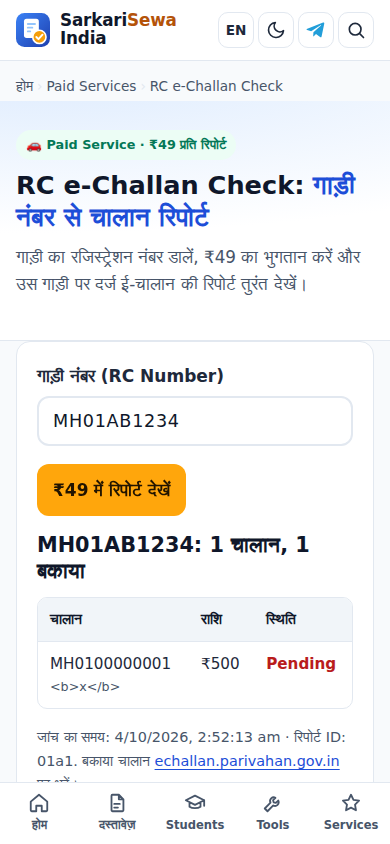
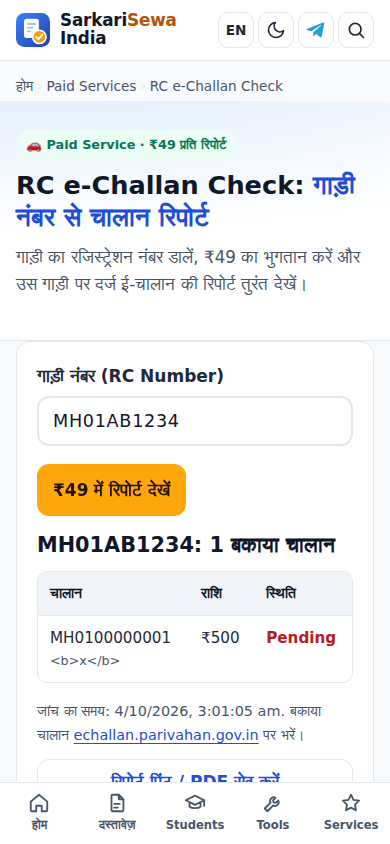
RC challan worker follows the API Sathi docs; auto-refund on failure
- Endpoint https://apisathi.in/gw/v1/rc-challan/, X-API-Key header,
  body { rc_number } only, result_code 101/103 mapped to the report.
- Razorpay payment id is sent as Idempotency-Key, so retries of
  upstream failures (502/503/504, not charged) are never billed twice.
- If no report can be made (invalid RC, no record, service down) the
  Razorpay payment is refunded automatically and cannot be reused.
- BH-series numbers are rejected before payment (the API does not take
  them). Page text and FAQ updated to match.

Claude-Session: https://claude.ai/code/session_0173F7PyiT1bjgjr4xLX45bo

Changed region(s): [[0.0923, 0.6469, 0.8923, 0.9242], [0.5846, 0.6161, 0.8615, 0.8009], [0.5231, 0.6777, 0.6154, 0.8009]]

diff --git a/cloudflare/rc-challan-api/worker.js b/cloudflare/rc-challan-api/worker.js
@@ -5,7 +5,7 @@
 //
 // Secrets (set with `wrangler secret put`, never in code or the website):
 //   RAZORPAY_KEY_ID, RAZORPAY_KEY_SECRET, APISATHI_API_KEY
-// Vars (wrangler.toml): RC_CHALLAN_PRICE (paise), CURRENCY, APISATHI_URL
+// Vars (wrangler.toml): RC_CHALLAN_PRICE (paise), CURRENCY
 const ALLOWED_ORIGINS = [
   "https://sarkarisewaindia.com",
   "https://www.sarkarisewaindia.com"
@@ -41,13 +41,13 @@ function json(data, status, headers) {
   return new Response(JSON.stringify(data), { status, headers });
 }
 
-// Indian registration numbers: state code, RTO number, series, number
-// (e.g. MH01AB1234, DL3CAB1234) and BH series (e.g. 22BH1234AB).
+// Registration numbers the API accepts: state code, RTO number, series,
+// 4-digit number (e.g. MH01AB1234, DL3CAB1234). BH series is not supported.
 function normalizeRC(rc) {
   return String(rc || "").toUpperCase().replace(/[^A-Z0-9]/g, "");
 }
 function isValidRC(rc) {
-  return /^[A-Z]{2}[0-9]{1,2}[A-Z]{0,3}[0-9]{4}$/.test(rc) || /^[0-9]{2}BH[0-9]{4}[A-Z]{1,2}$/.test(rc);
+  return /^[A-Z]{2}[0-9]{1,2}[A-Z]{0,3}[0-9]{4}$/.test(rc);
 }
 
 function bytesToHex(buffer) {
@@ -163,77 +163,87 @@ function verificationIsFresh(timestamp) {
   return Date.now() - value < 2 * 60 * 1000;
 }
 
-// API Sathi rc-challan. The request and response field names below follow
-// the API Sathi docs for the rc-challan API (check them before going live).
-function pick(obj, keys) {
-  for (const k of keys) if (obj && obj[k] !== undefined && obj[k] !== null && obj[k] !== "") return obj[k];
-  return "";
-}
+// API Sathi rc-challan (https://apisathi.in/docs/products/rc-challan/):
+// POST https://apisathi.in/gw/v1/rc-challan/ (trailing slash required),
+// header X-API-Key, body { rc_number } only. result_code 101 = challans
+// found, 103 = no pending challans; 102/106 are charged "not found" answers.
+// 502/503/504 are upstream failures: not charged, safe to retry.
+const APISATHI_URL = "https://apisathi.in/gw/v1/rc-challan/";
 
-function mapChallans(payload) {
-  const root = payload?.data ?? payload?.result ?? payload ?? {};
-  const list = Array.isArray(root) ? root : (root.challans ?? root.challan_details ?? root.challan ?? []);
+function mapChallans(list) {
   return (Array.isArray(list) ? list : []).map((c) => ({
-    challan_no: String(pick(c, ["challan_no", "challan_number", "challanNo", "challanNumber"])),
-    amount: pick(c, ["amount", "fine_amount", "challan_amount", "amount_payable"]),
-    status: String(pick(c, ["status", "challan_status", "payment_status"])),
-    date: String(pick(c, ["challan_date", "date", "offence_date", "challan_date_time"])),
-    offence: String(pick(c, ["offence", "offense", "offence_details", "violation"])),
-    place: String(pick(c, ["place", "location", "challan_place"])),
-    state: String(pick(c, ["state", "state_code"]))
+    challan_no: String(c?.challan_no ?? ""),
+    date: String(c?.challan_date ?? ""),
+    amount: String(c?.amount ?? ""),
+    status: String(c?.challan_status ?? ""),
+    offence: String(c?.offence ?? ""),
+    state: String(c?.state ?? "")
   }));
 }
 
-async function callChallanApi(rc, env) {
-  if (!env.APISATHI_API_KEY || !env.APISATHI_URL) {
+async function callChallanApi(rc, idempotencyKey, env) {
+  if (!env.APISATHI_API_KEY) {
     return { success: false, status: 503, error: "Challan service is not configured" };
   }
 
-  const controller = new AbortController();
-  const timeout = setTimeout(() => controller.abort(), 20000);
+  // Retry only upstream failures (not charged); the idempotency key stops a
+  // retry from being billed twice.
+  for (let attempt = 0; attempt < 3; attempt++) {
+    if (attempt) await new Promise((r) => setTimeout(r, 1500 * attempt));
+    const controller = new AbortController();
+    const timeout = setTimeout(() => controller.abort(), 25000);
+    try {
+      const response = await fetch(env.APISATHI_URL || APISATHI_URL, {
+        method: "POST",
+        headers: {
+          "X-API-Key": env.APISATHI_API_KEY,
+          "Content-Type": "application/json",
+          Accept: "application/json",
+          "Idempotency-Key": idempotencyKey
+        },
+        body: JSON.stringify({ rc_number: rc }),
+        signal: controller.signal
+      });
+      let payload;
+      try { payload = JSON.parse(await response.text()); } catch { payload = {}; }
 
-  try {
-    const response = await fetch(env.APISATHI_URL, {
-      method: "POST",
-      headers: {
-        Authorization: `Bearer ${env.APISATHI_API_KEY}`,
-        "Content-Type": "application/json",
-        Accept: "application/json"
-      },
-      body: JSON.stringify({ rc_number: rc }),
-      signal: controller.signal
-    });
-
-    const text = await response.text();
-    let payload;
-    try { payload = JSON.parse(text); } catch { payload = {}; }
-
-    if (!response.ok || payload?.success === false) {
-      return { success: false, status: response.status || 502, error: "Challan check failed. Please retry." };
-    }
-
-    const challans = mapChallans(payload);
-    return {
-      success: true,
-      status: 200,
-      data: {
-        rc_number: rc,
-        total: challans.length,
-        pending: challans.filter((c) => /pend|unpaid|due/i.test(c.status)).length,
-        challans,
-        call_id: String(pick(payload, ["call_id", "request_id", "id"])),
-        checked_at: new Date().toISOString()
+      if ([502, 503, 504].includes(response.status)) continue;
+      if (!response.ok) {
+        return { success: false, status: response.status === 422 ? 400 : 502, error: response.status === 422 ? "Invalid RC number" : "Challan check failed" };
       }
-    };
-  } catch (error) {
-    return {
-      success: false,
-      status: 504,
-      error: error?.name === "AbortError" ? "Challan service timed out. Please retry." : "Challan service unavailable. Please retry."
-    };
-  } finally {
-    clearTimeout(timeout);
+
+      const code = Number(payload.result_code);
+      if (code !== 101 && code !== 103) {
+        return { success: false, status: 404, error: "No vehicle record found for this RC number" };
+      }
+      const challans = code === 101 ? mapChallans(payload.challans) : [];
+      return {
+        success: true,
+        status: 200,
+        data: {
+          rc_number: String(payload.rc_number || rc),
+          total: Number(payload.echallan_count ?? challans.length) || challans.length,
+          pending: Number(payload.echallan_count ?? challans.length) || challans.length,
+          challans,
+          checked_at: new Date().toISOString()
+        }
+      };
+    } catch (error) {
+      if (error?.name !== "AbortError") return { success: false, status: 503, error: "Challan service unavailable" };
+    } finally {
+      clearTimeout(timeout);
+    }
   }
+  return { success: false, status: 504, error: "Challan service is busy" };
+}
+
+// Money back when the customer paid but got no report.
+async function refundPayment(paymentId, env) {
+  const result = await razorpayRequest(`/payments/${encodeURIComponent(paymentId)}/refund`, env, {
+    method: "POST",
+    body: JSON.stringify({ speed: "normal", notes: { reason: "RC challan report could not be generated" } })
+  });
+  return result.response.ok;
 }
 
 async function verifyPaymentAndGetChallans(body, env) {
@@ -367,7 +377,7 @@ async function verifyPaymentAndGetChallans(body, env) {
   }
 
   // Each API call is billed, so one payment gives one report.
-  if (existingState === "completed") {
+  if (existingState === "completed" || existingState === "refunded") {
     return {
       success: false,
       status: 409,
@@ -434,7 +444,7 @@ async function verifyPaymentAndGetChallans(body, env) {
     };
   }
 
-  const apiResult = await callChallanApi(normalizedRC, env);
+  const apiResult = await callChallanApi(normalizedRC, razorpay_payment_id, env);
 
   const finalNotes = {
     ...processingNotes,
@@ -443,11 +453,18 @@ async function verifyPaymentAndGetChallans(body, env) {
     verification_updated_at: String(Date.now())
   };
 
-  await updatePaymentNotes(razorpay_payment_id, finalNotes, env);
-
   if (!apiResult.success) {
-    return apiResult;
+    const refunded = await refundPayment(razorpay_payment_id, env).catch(() => false);
+    finalNotes.verification_state = refunded ? "refunded" : "failed";
+    await updatePaymentNotes(razorpay_payment_id, finalNotes, env);
+    return {
+      ...apiResult,
+      error: `${apiResult.error}. ${refunded ? "Your payment has been refunded." : "Please contact us for a refund."}`,
+      refunded
+    };
   }
+
+  await updatePaymentNotes(razorpay_payment_id, finalNotes, env);
 
   return apiResult;
 }
